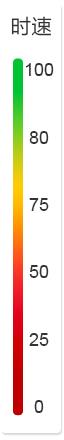
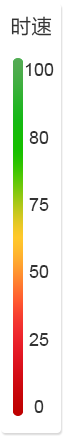
11-28 11.09 11-27 1,2,3,4,5,6,

Changed region(s): [[0.1875, 0.1182, 0.375, 0.8568], [0.3125, 0.9159, 0.3438, 0.9455], [0.2188, 0.9159, 0.25, 0.9455]]

diff --git a/src/views/car/trajectory/index.tsx b/src/views/car/trajectory/index.tsx
@@ -133,7 +133,7 @@ export default class Trajectory extends Vue {
       sortBy: 'mileage',
       formatter(row: any) {
         return row.mileage !== null
-          ? `${row.mileage}km`
+          ? `${Math.abs(row.mileage)}km`
           : '--';
       },
     }, {
@@ -171,7 +171,7 @@ export default class Trajectory extends Vue {
       sortBy: 'avgSpeed',
       formatter(row: any) {
         return row.avgSpeed !== null
-          ? `${row.avgSpeed}km/h`
+          ? `${Math.abs(row.avgSpeed)}km/h`
           : '--';
       },
     }, {
@@ -511,7 +511,7 @@ export default class Trajectory extends Vue {
       if (totalPoints.length !== 0) {
         const oneXY = self.SMap.pointToPixel(totalPoints[0]);
         iconRender(oneXY.x - 13, oneXY.y - 26, require('@/assets/start.png'));
-        if (self.isEnd) {
+        if (self.getIsEnd()) {
           const endXY = self.SMap.pointToPixel(totalPoints[totalPoints.length - 1]);
           iconRender(endXY.x - 13, endXY.y - 26, require('@/assets/end.png'));
         }
@@ -607,6 +607,10 @@ export default class Trajectory extends Vue {
     }
   }
 
+  getIsEnd() {
+    return this.isEnd;
+  }
+
   getPlateNum() {
     return this.plateNum;
   }
@@ -619,35 +623,32 @@ export default class Trajectory extends Vue {
     speed = speed > 100 ? 100 : speed;
     switch (Math.floor(speed / 25)) {
       case 0:
-        red = 187;
-        green = 0;
-        blue = 0;
+        red = 187 + Math.ceil(((241 - 187) / 25) * speed);
+        green = 0 + Math.ceil(((48 - 0) / 25) * speed);
+        blue = 0 + Math.ceil(((48 - 0) / 25) * speed);
         break;
       case 1:
         speed -= 25;
-        // red = 187 + Math.ceil(((241 - 187) / 25) * speed);
-        // green = 0 + Math.ceil(((48 - 0) / 25) * speed);
-        // blue = 0 + Math.ceil(((48 - 0) / 25) * speed);
         red = 241 + Math.ceil(((255 - 241) / 25) * speed);
         green = 48 + Math.ceil(((200 - 48) / 25) * speed);
         blue = 48 + Math.ceil(((0 - 48) / 25) * speed);
         break;
       case 2:
         speed -= 50;
-        red = 241 + Math.ceil(((255 - 241) / 25) * speed);
-        green = 48 + Math.ceil(((200 - 48) / 25) * speed);
-        blue = 48 + Math.ceil(((0 - 48) / 25) * speed);
+        red = 255 + Math.ceil(((22 - 255) / 25) * speed);
+        green = 200 + Math.ceil(((191 - 200) / 25) * speed);
+        blue = 0 + Math.ceil(((43 - 0) / 25) * speed);
         break;
       case 3:
         speed -= 75;
-        red = 255 + Math.ceil(((22 - 255) / 25) * speed);
-        green = 200 + Math.ceil(((191 - 200) / 25) * speed);
-        blue = 100 + Math.ceil(((43 - 0) / 25) * speed);
+        red = 85 + Math.ceil(((22 - 85) / 25) * speed);
+        green = 170 + Math.ceil(((191 - 170) / 25) * speed);
+        blue = 0 + Math.ceil(((85 - 0) / 25) * speed);
         break;
       case 4:
-        red = 22;
-        green = 191;
-        blue = 0;
+        red = 85;
+        green = 170;
+        blue = 85;
         break;
       default: break;
     }

diff --git a/src/views/car/track/index.tsx b/src/views/car/track/index.tsx
@@ -110,21 +110,23 @@ export default class Track extends Vue {
   }
 
   setMapLoc = (val: any) => {
-    const pt = new this.BMap.Point(val.lng, val.lat);
-    this.SMap.centerAndZoom(new this.BMap.Point(val.lng, val.lat), 15);
-    const myIcon = new this.BMap.Icon(locaIcon, new this.BMap.Size(32, 32));
-    const point = new this.BMap.Marker(pt, { icon: myIcon });
-    this.SMap.removeOverlay(point);
-    this.SMap.addOverlay(point);
-    const opts = {
-      width: 200, // 信息窗口宽度
-      title: '上报时间：', // 信息窗口标题
-    };
-    const infoWindow = new this.BMap.InfoWindow(val.date, opts);
-    this.SMap.openInfoWindow(infoWindow, pt); // 开启信息窗口
-    point.addEventListener('click', () => {
+    if (val.lng >= 0) {
+      const pt = new this.BMap.Point(val.lng, val.lat);
+      this.SMap.centerAndZoom(new this.BMap.Point(val.lng, val.lat), 15);
+      const myIcon = new this.BMap.Icon(locaIcon, new this.BMap.Size(32, 32));
+      const point = new this.BMap.Marker(pt, { icon: myIcon });
+      this.SMap.removeOverlay(point);
+      this.SMap.addOverlay(point);
+      const opts = {
+        width: 200, // 信息窗口宽度
+        title: '上报时间：', // 信息窗口标题
+      };
+      const infoWindow = new this.BMap.InfoWindow(val.date, opts);
       this.SMap.openInfoWindow(infoWindow, pt); // 开启信息窗口
-    });
+      point.addEventListener('click', () => {
+        this.SMap.openInfoWindow(infoWindow, pt); // 开启信息窗口
+      });
+    }
   }
   render() {
     return (

diff --git a/vue.config.js b/vue.config.js
@@ -18,8 +18,8 @@ module.exports = {
     proxy: {
       '/api': {
         // target: 'http://192.168.6.194:5555/monitor/', // 开发环境地址/
-        // target: 'http://192.168.6.232:5555/monitor/', // 测试环境地址
-        target: 'http://192.168.6.214:5555/monitor/', // 预发布环境地址
+        target: 'http://192.168.6.232:5555/monitor/', // 测试环境地址
+        // target: 'http://192.168.6.214:5555/monitor/', // 预发布环境地址
         // target: 'https://monitor-blacktea.mysirui.com/api/monitor/', // 正式环境地址
         changeOrigin: true,
         pathRewrite: {
@@ -28,8 +28,8 @@ module.exports = {
       },
       '/rootApi': {
         // target: 'http://192.168.6.194:5555/', // 开发环境地址
-        // target: 'http://192.168.6.232:5555/', // 测试环境地址
-        target: 'http://192.168.6.214:5555/', // 预发布环境地址
+        target: 'http://192.168.6.232:5555/', // 测试环境地址
+        // target: 'http://192.168.6.214:5555/', // 预发布环境地址
         // target: 'https://monitor-blacktea.mysirui.com/api/', // 正式环境地址
         changeOrigin: true,
         pathRewrite: {

diff --git a/src/views/car/fenceDetail/index.tsx b/src/views/car/fenceDetail/index.tsx
@@ -273,7 +273,7 @@ export default class FenceDetail extends Vue {
   }
 
   // 删除覆盖物
-  deleteCover=(ret:any, name:string) => {
+  deleteCover = (ret: any, name: string) => {
     const deleteMenu = new this.BMap.ContextMenu();
     deleteMenu.addItem(new this.BMap.MenuItem(name, (() => {
       this.SMap.clearOverlays();
@@ -283,7 +283,7 @@ export default class FenceDetail extends Vue {
   }
 
   // 创建多边形
-  createPoly = (ret:any) => {
+  createPoly = (ret: any) => {
     this.SMap.clearOverlays();
     this.SMap.addOverlay(ret);
     ret.enableEditing();
@@ -411,7 +411,7 @@ export default class FenceDetail extends Vue {
   // 搜索车辆
   findCar() {
     findCar({ plateNum: this.findCarPlate }).then((res) => {
-      if (res.result.resultCode) {
+      if (res.result.resultCode === 0) {
         this.tableSelectData.push(res.entity);
         this.total = 1;
       } else {

diff --git a/src/utils/request.ts b/src/utils/request.ts
@@ -136,9 +136,16 @@ export default function request(options: Option): Promise<any> {
       statusCode = 600;
       msg = error.message || 'Network Error';
     }
-    // if (statusCode === 401) {
+    if (statusCode === 401) {
+      if (config.noLoginList.indexOf(window.location.hash) < 0) {
+        Message.error('登录超时，请重新登录');
+        router.replace('/login');
+      }
+    }
+    // if (statusCode === 4) {
     //   if (config.noLoginList.indexOf(window.location.hash) < 0) {
-    //     Message.error('无权限访问，请联系管理员！');
+    //     Message.error('登陆验证失效，请重新登录');
+    //     router.replace('/login');
     //   }
     // }
     // Message.error(msg);

diff --git a/src/views/car/monitor/index.tsx b/src/views/car/monitor/index.tsx
@@ -73,6 +73,7 @@ export default class Monitor extends Vue {
       label: '品牌车型',
       placeholder: '品牌车型',
       options: [],
+      filterable: true,
       props: {
         value: 'id',
         children: 'children',
@@ -433,8 +434,12 @@ export default class Monitor extends Vue {
     });
     allList(null).then((res) => {
       if (res.result.resultCode === '0') {
-        this.filterList[1].options = res.entity;
         this.brandList = res.entity;
+        res.entity.unshift({
+          id: Math.random(),
+          name: '全部',
+        });
+        this.filterList[1].options = res.entity;
       } else {
         this.$message.error(res.result.resultMessage);
       }

diff --git a/src/views/equipment/device/index.tsx b/src/views/equipment/device/index.tsx
@@ -200,6 +200,7 @@ export default class Device extends Vue {
     { label: '所属商户', prop: 'orgName' },
     { label: '设备类型', prop: 'terminalTypeName', formatter: (row: any) => (row.terminalTypeName ? row.terminalTypeName : '--') },
     { label: 'imei号', prop: 'imei' },
+    { label: '主机编码', prop: 'barCode' },
     { label: '配置名称', prop: 'cfgName' },
     { label: '产品编码', prop: 'productCode' },
     { label: '当前车辆', prop: 'plateNum' },

diff --git a/src/views/car/eleFence/index.tsx b/src/views/car/eleFence/index.tsx
@@ -225,7 +225,9 @@ export default class EleFence extends Vue {
   provinceList: any = [];
   // 省市区三级联动
   areaLoad(val: any) {
-    if (val.length === 1) {
+    if (val.length === 0) {
+      this.outParams.area = '';
+    } else if (val.length === 1) {
       this.getCitys(val[0]);
       this.outParams.area = val[val.length - 1].substring(0, 2);
     } else if (val.length === 2) {

diff --git a/src/views/message/notice/index.tsx b/src/views/message/notice/index.tsx
@@ -114,7 +114,7 @@ export default class Notice extends Vue {
       });
     } else if (key === 'delete') {
       noticeDelete({ id: row.id }).then((res) => {
-        if (res.result.resultCode) {
+        if (res.result.resultCode === 0) {
           FromTable.reloadTable(key);
           this.$store.dispatch('getNotice');
           this.$message.success(res.result.resultMessage);

diff --git a/共享车监控平台版本记录.md b/共享车监控平台版本记录.md
@@ -57,3 +57,11 @@
 2. 追踪-设备：修改表头（配置启动、当前启动）、进入时计算生效时间、预约操作追踪时间延迟显示、错误提示语修改
 3. 追踪-记录：若无上报位置，提示用户、时间搜索修改、选择展示
 4. 轨迹列表：时长展示修改
+
+`11-27`
+1. 监控-轨迹：路径颜色显示算法修改，速度图片修改、路径未完时不显示终点
+2. 监控：添加品牌筛选可输入，添加全选选项
+3. 电子围栏：省市区搜索修改、
+4. 监控-追踪：里程，平均速度取绝对值
+5. 监控-记录：切换页码点坐标判断
+6. 设备：添加主机编码字段
